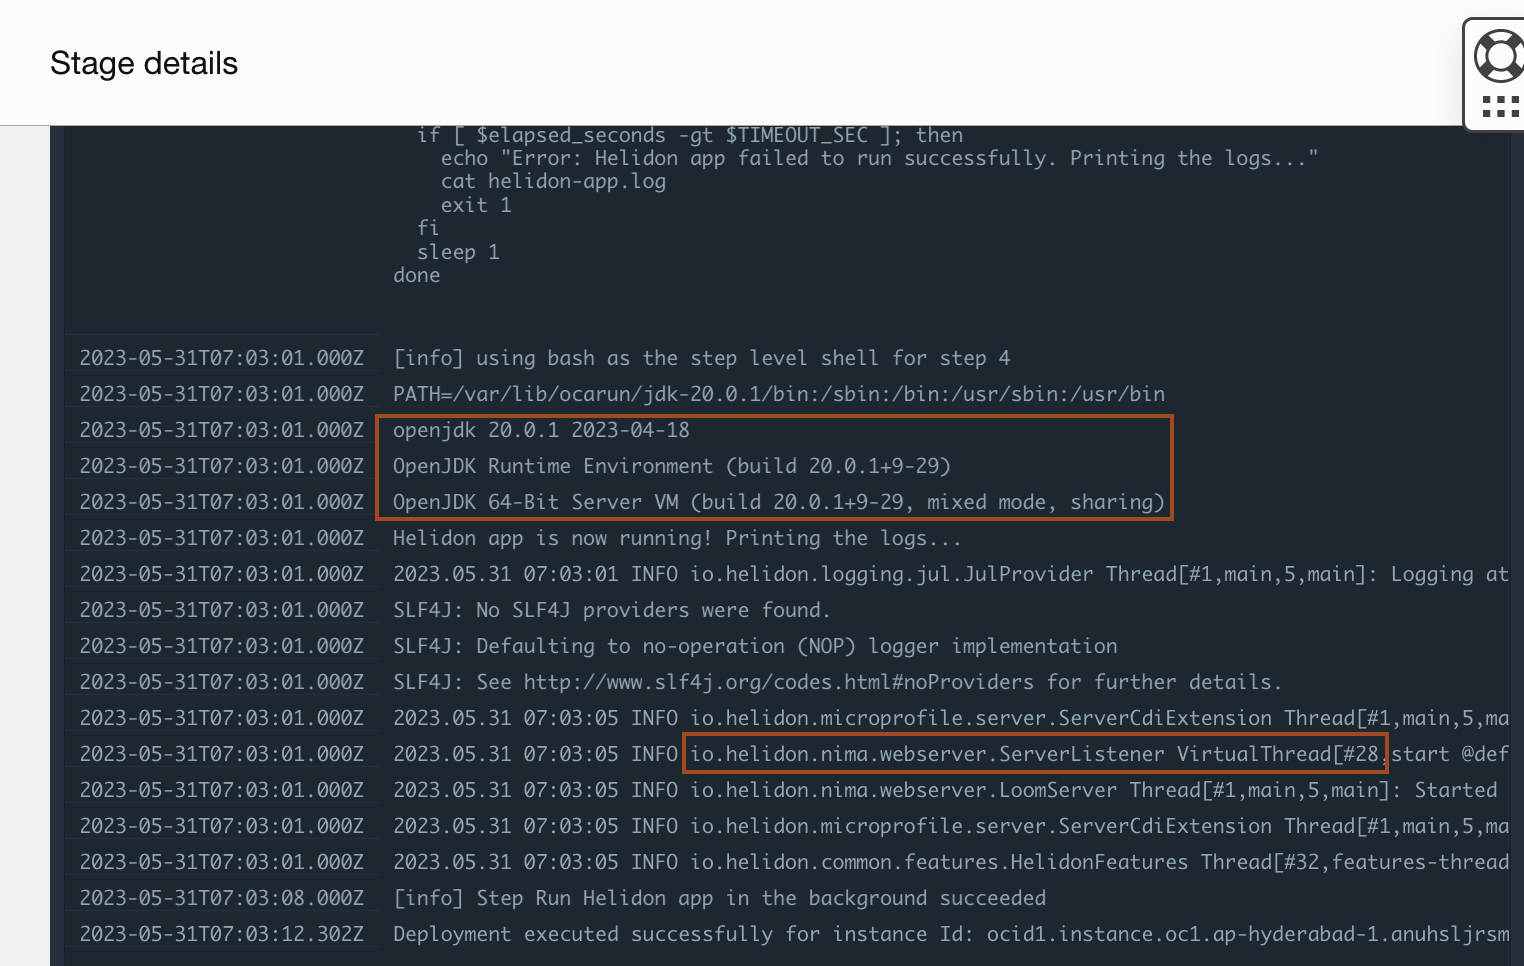
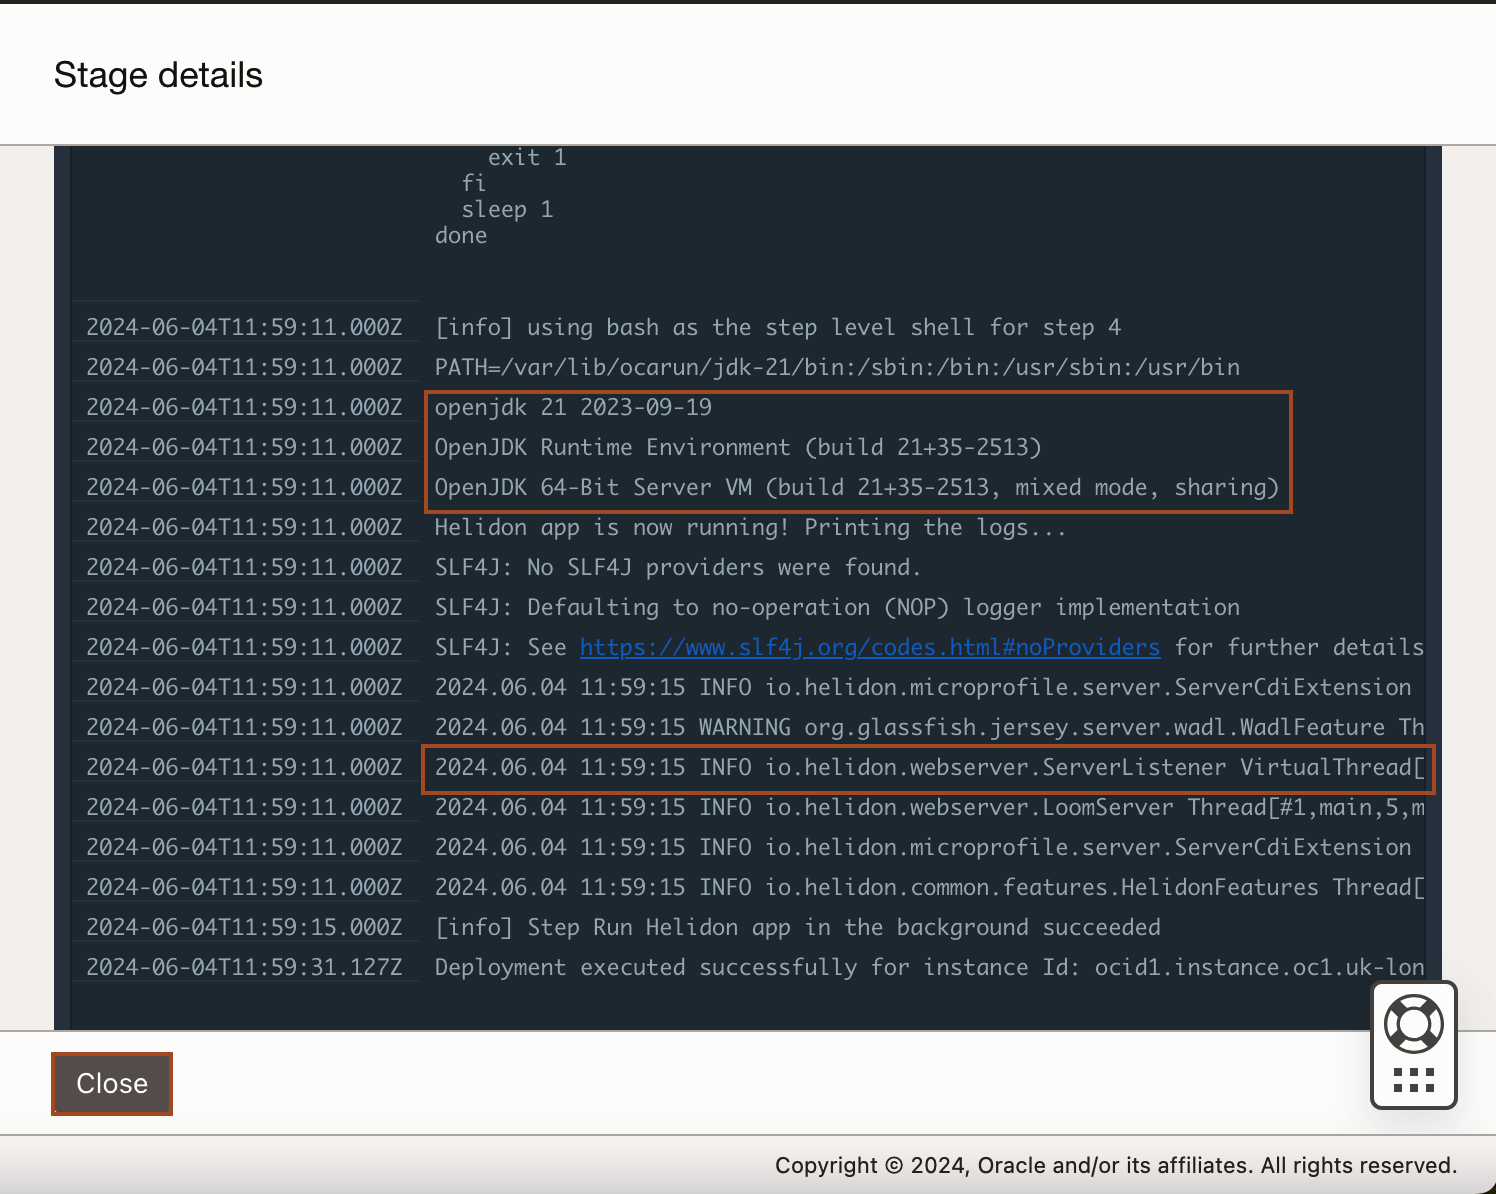
Update to JDK 21(WMD ID#11409) (#67)
* Update to 1.3.2

* Update to Verrazzano 1.3.2

* lower case

* Lowercase complete

* QA Complete

* manifest.json updated

* Introduction link updated

* Revert "Introduction link updated"

This reverts commit 852a83aca12287bba88fd175d98aa24d78cb8172.

* Intro link

* Update Title

* Initial Project

* Update HOL Support

* Update jdk

* Update as per free tier

* Update Cluster creation

* Update Verrazzano to 1.4.1

* fixed indentation and image issue

* remove redundant instruction

* Update Verrazzano 1.4.2

* OOW feedback added

* VZ CLI Installation

* remove persistence volume

* alternate-version fixed

* Set initial version

* Feedback version 1

* upgrade to Helidon 4.0.0-Alpha5

* Modify the output

* Final

* Add comment

* Final code

* walkthrough video added

* new version helidon verrazzano

* Quaterly QA Verrazzano workshop

* lint checker suggestion

* Update to Verrazzano 1.5.2

* Tomcat-verrazzano version 2

* Link to object storage added

* Enhanced cluster

* Title changed

* Quarterly QA

* lint-checker suggestion

* Quarterly QA

* Grammer fix

* unnecessary files removed

* Update to WKTUI 1.5.2

* springboot lab added

* ready for publish

* Helidon DevOps workshop added

* Update help section

* Dev_Ops_Image changed

Dev_Ops_Image changed

* QA completed

* Quarterly QA

* Verrazzano version update

* WMS ID#11409

* Link updated

* Add support lab

* Update Verrazzano and OKE Version

* Added walkthrough video for cloud world HOL
[…]

diff --git a/helidon-oci-devops/simulate-patch/simulate-patch.md b/helidon-oci-devops/simulate-patch/simulate-patch.md
@@ -2,7 +2,7 @@
 
 ## Introductions
 
-This lab will attempt to simulate a patching scenario. Take a case where the initial environment uses *Open JDK* for testing and eventually moves to use *Oracle JDK* when it is ready for production. The previous build and deployment pipeline already sets *Open JDK 20* as the Java flavour to use. In this lab, it will be replaced with *Oracle JDK 20*.
+This lab will attempt to simulate a patching scenario. Take a case where the initial environment uses *Open JDK* for testing and eventually moves to use *Oracle JDK* when it is ready for production. The previous build and deployment pipeline already sets *Open JDK 21* as the Java flavour to use. In this lab, it will be replaced with *Oracle JDK 21*.
 
 Estimated time: 10 minutes
 
@@ -25,7 +25,7 @@ In this lab, you will:
 1. As we have seen in **Lab 2**, In the previously completed **deployment pipeline log** and observed that near the bottom of the log it was using **Open JDK**.
     ![open jdk](images/open-jdk.png)
 
-2. In the **Code Editor**, click the file name **`build_spec.yaml`** to open it. Comment out the environment variable **`JDK20_TAR_GZ_INSTALLER`** that sets the URL path to an **Open JDK** installer at line number #15 and uncomment **`JDK20_TAR_GZ_INSTALLER`** that sets the URL path to an **Oracle JDK** installer at line number #16 as shown below. 
+2. In the **Code Editor**, click the file name **`build_spec.yaml`** to open it. Comment out the environment variable **`JDK21_TAR_GZ_INSTALLER`** that sets the URL path to an **Open JDK** installer at line number #15 and uncomment **`JDK21_TAR_GZ_INSTALLER`** that sets the URL path to an **Oracle JDK** installer at line number #16 as shown below. 
     ![modify jdk](images/modify-jdk.png)
     
 ## Task 2: Push the change and trigger the DevOps pipeline
@@ -34,7 +34,7 @@ In this lab, you will:
     ```bash
     <copy>git add .
     git status
-    git commit -m "Replace OpenJDK 20 with OracleJDK 20"
+    git commit -m "Replace OpenJDK 21 with OracleJDK 21"
     git push</copy>
     ```
 
@@ -72,6 +72,6 @@ You may now **proceed to the next lab.**
 
 ## Acknowledgements
 
-* **Author** -  Keith Lustria
-* **Contributors** - Ankit Pandey, Maciej Gruszka
-* **Last Updated By/Date** - Ankit Pandey, August 2023
+* **Author** -  Ankit Pandey
+* **Contributors** - Sid Joshi, Maciej Gruszka
+* **Last Updated By/Date** - Ankit Pandey, June 2024

diff --git a/helidon-oci-devops/create-application/create-application.md b/helidon-oci-devops/create-application/create-application.md
@@ -44,22 +44,8 @@ In this lab, you will:
      ```bash
     <copy>./helidon init</copy>
     ```
-2. When it prompts for the *Helidon version*, Enter *4* to see all versions and then enter *35* to select the *4.0.0-ALPHA6* version as shown below.
-    ```bash
-    Helidon versions
-    (1) 3.2.2 
-    (2) 2.6.2 
-    (3) 4.0.0-M1 
-    (4) Show all versions 
-    Enter selection (default: 1): 4
-    -----------------------------
-    -----------------------------
-    (33) 2.0.1 
-    (34) 2.0.0 
-    (35) 4.0.0-ALPHA6 
-    (36) 4.0.0-M1 
-    Enter selection (default: 1): 35 
-    ```
+2. When it prompts for the *Helidon version*, Enter *4* to see all versions and then enter the option to select the *4.0.7* version.
+    
 
 3. When prompted to *Select a Flavor*, copy and paste the below value to the terminal.
     ```bash
@@ -68,7 +54,6 @@ In this lab, you will:
         Select a Flavor
         (1) se   | Helidon SE
         (2) mp   | Helidon MP
-        (3) nima | Helidon Níma
         Enter selection (default: 1): <copy>2</copy>
     ``` 
 4. When prompted to *Select an Application Type*, copy and paste the below value to the terminal.
@@ -77,7 +62,7 @@ In this lab, you will:
     (1) quickstart | Quickstart
     (2) database   | Database
     (3) custom     | Custom
-    (4) oci        | OCI
+    (4) oci                | OCI
     Enter selection (default:1):<copy>4</copy>
     ```
 5. When prompted for *Project groupId*, *Project artifactId* and *Project version*, just **accept the default values**.
@@ -264,6 +249,6 @@ You may now **proceed to the next lab.**
 
 ## Acknowledgements
 
-* **Author** -  Keith Lustria
-* **Contributors** - Ankit Pandey, Maciej Gruszka
-* **Last Updated By/Date** - Ankit Pandey, August 2023
+* **Author** -  Ankit Pandey
+* **Contributors** - Sid Joshi, Maciej Gruszka
+* **Last Updated By/Date** - Ankit Pandey, June 2024

diff --git a/helidon-oci-devops/os-support/os-support.md b/helidon-oci-devops/os-support/os-support.md
@@ -146,7 +146,7 @@ Test by using curl and check that a new **hello.txt** object has been added to t
 2. Copy and paste the following command to place a **GET** request. You will have similar output as shown below.
     ```bash
     <copy>curl http://$PUBLIC_IP:8080/greet</copy>
-    {"message":"Hello World!","date":[2023,5,25]}
+    {"message":"Hello World!","date":[2024,6,5]}
     ```
 
 3. In **Cloud Console**, Click *Hamburger menu* -> *Storage* -> *Buckets* as shown.
@@ -164,7 +164,7 @@ Test by using curl and check that a new **hello.txt** object has been added to t
     ```bash
     <copy>curl -X PUT -H "Content-Type: application/json" -d '{"greeting" : "Hola"}' http://$PUBLIC_IP:8080/greet/greeting 
     curl http://$PUBLIC_IP:8080/greet</copy>
-    {"message":"Hola World!","date":[2023,5,25]}
+    {"message":"Hola World!","date":[2024,6,5]}
     ```
 
 7. Check that the bucket's **hello.txt** object now has a size of **4 bytes** because the greeting word is replaced with **Hola**. You can also download the object and verify that the content is changed to **Hola**.
@@ -205,6 +205,6 @@ Test by using curl and check that a new **hello.txt** object has been added to t
 
 ## Acknowledgements
 
-* **Author** -  Keith Lustria
-* **Contributors** - Ankit Pandey, Maciej Gruszka
-* **Last Updated By/Date** - Ankit Pandey, August 2023
+* **Author** -  Ankit Pandey
+* **Contributors** - Sid Joshi, Maciej Gruszka
+* **Last Updated By/Date** - Ankit Pandey, June 2024

diff --git a/helidon-oci-devops/observability-management/observability-management.md b/helidon-oci-devops/observability-management/observability-management.md
@@ -35,20 +35,20 @@ In this task, we will access the application using curl to do GET and PUT HTTP r
 2. Copy and paste the following command to place a **GET request**. You will have similar output as shown below.
     ```bash
     <copy>curl http://$PUBLIC_IP:8080/greet</copy>
-    {"message":"Hello World!","date":[2023,5,25]}
+    {"message":"Hello World!","date":[2024,6,5]}
     ```
 
 3. Hello to a name, i.e. to **Joe**. You will have similar output as shown below.
     ```bash
     <copy>curl http://$PUBLIC_IP:8080/greet/Joe</copy>
-    {"message":"Hello Joe!","date":[2023,5,23]}
+    {"message":"Hello Joe!","date":[2024,6,5]}
     ```
 
 4. Replace Hello with another greeting word, i.e. **Hola**. You will have similar output as shown below.
     ```bash
     <copy>curl -X PUT -H "Content-Type: application/json" -d '{"greeting" : "Hola"}' http://$PUBLIC_IP:8080/greet/greeting 
     curl http://$PUBLIC_IP:8080/greet</copy>
-    {"message":"Hola World!","date":[2023,5,23]}
+    {"message":"Hola World!","date":[2024,6,5]}
     ```
 
 ## Task 2: Explore OCI Metrics Explorer
@@ -114,6 +114,6 @@ You may now **proceed to the next lab.**
 
 ## Acknowledgements
 
-* **Author** -  Keith Lustria
-* **Contributors** - Ankit Pandey, Maciej Gruszka
-* **Last Updated By/Date** - Ankit Pandey, August 2023
+* **Author** -  Ankit Pandey
+* **Contributors** - Sid Joshi, Maciej Gruszka
+* **Last Updated By/Date** - Ankit Pandey, June 2024

diff --git a/helidon-oci-devops/provision-infrastructure/provision-infrastructure.md b/helidon-oci-devops/provision-infrastructure/provision-infrastructure.md
@@ -33,7 +33,7 @@ In this lab, you will:
 3. Copy and paste the following command to the terminal to download the source code. This source code contains the terraform scripts which create the OCI resources required for this workshop. 
 
     ```bash
-    <copy>curl -O https://objectstorage.uk-london-1.oraclecloud.com/p/IxV3cO7Uf5VnbniLEmx8zOBhr6liix40QWNTnTy0TTBcGdrLaRNSt2IJYxBPHqdw/n/lrv4zdykjqrj/b/ankit-bucket/o/devops_helidon_to_instance_ocw_hol.zip
+    <copy>curl -O https://objectstorage.uk-london-1.oraclecloud.com/p/toASyWGqXKfORRi0qxQZJ7TBBOn5TYwf1PxGQR2JZxVtS-RATjO1PqrVzZtsR9en/n/lrv4zdykjqrj/b/ankit-bucket/o/devops_helidon_to_instance_ocw_hol.zip
     unzip ~/devops_helidon_to_instance_ocw_hol.zip</copy>
     ```
 ![download source code](images/download-sourcecode.png)
@@ -146,6 +146,6 @@ You may now **proceed to the next lab.**
 
 ## Acknowledgements
 
-* **Author** -  Keith Lustria
-* **Contributors** - Ankit Pandey, Maciej Gruszka
-* **Last Updated By/Date** - Ankit Pandey, August 2023
+* **Author** -  Ankit Pandey
+* **Contributors** - Sid Joshi, Maciej Gruszka
+* **Last Updated By/Date** - Ankit Pandey, June 2024

diff --git a/helidon-oci-devops/intro/intro.md b/helidon-oci-devops/intro/intro.md
@@ -2,7 +2,7 @@
 
 ## About this Workshop
 
-In this workshop, you will learn how to build, maintain, and upgrade a **Helidon microservice application** from start to finish using the **OCI DevOps service**. We'll demonstrate how to accelerate and streamline the entire lifecycle management process, utilizing JDK20 with Virtual Threads technology.
+In this workshop, you will learn how to build, maintain, and upgrade a **Helidon microservice application** from start to finish using the **OCI DevOps service**. We'll demonstrate how to accelerate and streamline the entire lifecycle management process, utilizing JDK21 with Virtual Threads technology.
 
 Estimated time: 5 minutes
 
@@ -57,6 +57,6 @@ You may now **proceed to the next lab.**
 
 ## Acknowledgements
 
-* **Author** -  Keith Lustria
-* **Contributors** - Ankit Pandey, Maciej Gruszka
-* **Last Updated By/Date** - Ankit Pandey, May 2023
+* **Author** -  Ankit Pandey
+* **Contributors** - Sid Joshi, Maciej Gruszka
+* **Last Updated By/Date** - Ankit Pandey, June 2024
